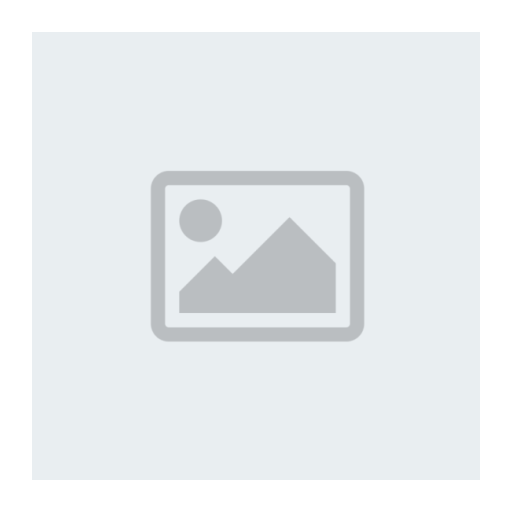
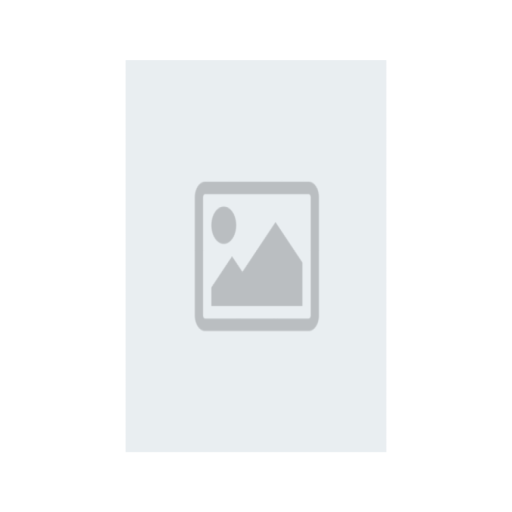
picasso injection into adapater, aspect ratio

Changed region(s): [[0.2812, 0.3125, 0.7188, 0.6875]]

diff --git a/spotifystreamer/src/main/java/com/poludzku/spotifystreamer/dashboard/view/MovieAdapter.java b/spotifystreamer/src/main/java/com/poludzku/spotifystreamer/dashboard/view/MovieAdapter.java
@@ -1,15 +1,22 @@
 package com.poludzku.spotifystreamer.dashboard.view;
 
 import android.support.v7.widget.RecyclerView;
+import android.util.Log;
 import android.view.LayoutInflater;
 import android.view.View;
 import android.view.ViewGroup;
 
 import com.example.greed.spotifystreamer.R;
 import com.poludzku.spotifystreamer.app.model.Movie;
+import com.squareup.picasso.Callback;
+import com.squareup.picasso.Picasso;
 
 import java.util.ArrayList;
 import java.util.List;
+
+import javax.inject.Inject;
+
+import static java.lang.System.load;
 
 /**
  * Created by greed on 22/09/15.
@@ -20,8 +27,11 @@ public class MovieAdapter extends RecyclerView.Adapter<MovieViewHolder> {
     private final List<Movie> movies = new ArrayList<>();
     private final MovieViewHolder.OnClick listener;
 
-    public MovieAdapter(MovieViewHolder.OnClick listener) {
+    Picasso picasso;
+
+    public MovieAdapter(MovieViewHolder.OnClick listener, Picasso picasso) {
         this.listener = listener;
+        this.picasso = picasso;
     }
 
     public void setMovies(List<Movie> movies) {
@@ -44,20 +54,9 @@ public class MovieAdapter extends RecyclerView.Adapter<MovieViewHolder> {
     @Override
     public void onBindViewHolder(MovieViewHolder holder, int position) {
         Movie movie = movies.get(position);
-        //TODO
-        //SpotifystreamerApplication.getInstance()
-        //      .getPicasso()
-        //    .load(getPosterPath(movie.getMoviePoster()))
-        //  .into(holder.imageView);
+        picasso.load(getPosterPath(movie.getMoviePoster()))
+        .into(holder.imageView);
 
-    }
-
-    @Override
-    public void onViewDetachedFromWindow(MovieViewHolder holder) {
-        super.onViewDetachedFromWindow(holder);
-        //TODO
-        //SpotifystreamerApplication.getInstance().getPicasso().cancelRequest(holder.imageView);
-        holder.imageView.setImageDrawable(null);
     }
 
     private String getPosterPath(String image) {

diff --git a/spotifystreamer/src/main/java/com/poludzku/spotifystreamer/dashboard/injection/DashboardModule.java b/spotifystreamer/src/main/java/com/poludzku/spotifystreamer/dashboard/injection/DashboardModule.java
@@ -11,6 +11,9 @@ import com.poludzku.spotifystreamer.dashboard.domain.DownloadMoviesUseCase;
 import com.poludzku.spotifystreamer.dashboard.presenter.MoviePresenter;
 import com.poludzku.spotifystreamer.dashboard.presenter.MoviePresenterImpl;
 import com.poludzku.spotifystreamer.dashboard.view.DashboardView;
+import com.poludzku.spotifystreamer.dashboard.view.MovieAdapter;
+import com.poludzku.spotifystreamer.dashboard.view.MovieViewHolder;
+import com.squareup.picasso.Picasso;
 
 import dagger.Module;
 import dagger.Provides;
@@ -22,9 +25,11 @@ import dagger.Provides;
 public class DashboardModule {
 
     private DashboardView dashboardView;
+    private MovieViewHolder.OnClick onClick;
 
-    public DashboardModule(DashboardView dashboardView) {
+    public DashboardModule(DashboardView dashboardView, MovieViewHolder.OnClick onClick) {
         this.dashboardView = dashboardView;
+        this.onClick = onClick;
     }
 
     @PerFragment
@@ -58,5 +63,12 @@ public class DashboardModule {
     @ForFavourites
     DownloadMoviesUseCase downloadMoviesByFavouritesUseCase(DownloadMoviesByFavouritesUseCase downloadMoviesByPopularityUseCase) {
         return downloadMoviesByPopularityUseCase;
+    }
+
+    @PerFragment
+    @Provides
+    MovieAdapter movieAdapter(Picasso picasso){
+        return new MovieAdapter(onClick, picasso);
+
     }
 }

diff --git a/spotifystreamer/src/main/java/com/poludzku/spotifystreamer/dashboard/view/DashboardFragment.java b/spotifystreamer/src/main/java/com/poludzku/spotifystreamer/dashboard/view/DashboardFragment.java
@@ -30,7 +30,8 @@ public class DashboardFragment extends Fragment implements DashboardView, MovieV
     private static final int SORT_BY_POPULARITY = 0;
     private static final int SORT_BY_RATING = 1;
     private static final String SORT_ORDER_EXTRA = "sort_order_extra";
-    private final MovieAdapter adapter = new MovieAdapter(this);
+    @Inject
+    MovieAdapter adapter;
     @Inject
     MoviePresenter moviePresenter;
     private RecyclerView mRecyclerView;
@@ -43,7 +44,7 @@ public class DashboardFragment extends Fragment implements DashboardView, MovieV
     @Override
     public void onCreate(Bundle savedInstanceState) {
         super.onCreate(savedInstanceState);
-        SpotifystreamerApplication.getInstance().getComponent().plus(new DashboardModule(this)).inject(this);
+        SpotifystreamerApplication.getInstance().getComponent().plus(new DashboardModule(this, this)).inject(this);
         setHasOptionsMenu(true);
     }
 

diff --git a/spotifystreamer/src/main/java/com/poludzku/spotifystreamer/app/injection/SpotifystreamerModule.java b/spotifystreamer/src/main/java/com/poludzku/spotifystreamer/app/injection/SpotifystreamerModule.java
@@ -27,7 +27,9 @@ public class SpotifystreamerModule {
 
     @Provides
     Picasso providePicasso() {
-        return Picasso.with(application);
+        Picasso picasso = Picasso.with(application);
+        picasso.setLoggingEnabled(true);
+        return picasso;
     }
 
     @Provides
